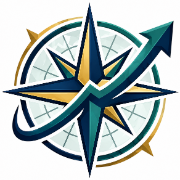
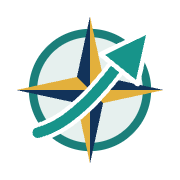
파비콘을 단순화 버전(SVG)으로 교체해 작은 크기 선명도 개선

diff --git a/index.html b/index.html
@@ -5,6 +5,7 @@
 <meta name="viewport" content="width=device-width, initial-scale=1.0">
 <title>발길 솔리아 · Balgil Soglia — 문턱을 넘는 발걸음</title>
 <link rel="icon" href="favicon.ico" sizes="any">
+<link rel="icon" type="image/svg+xml" href="favicon.svg">
 <link rel="icon" type="image/png" sizes="32x32" href="favicon-32x32.png">
 <link rel="icon" type="image/png" sizes="16x16" href="favicon-16x16.png">
 <link rel="apple-touch-icon" sizes="180x180" href="apple-touch-icon.png">
